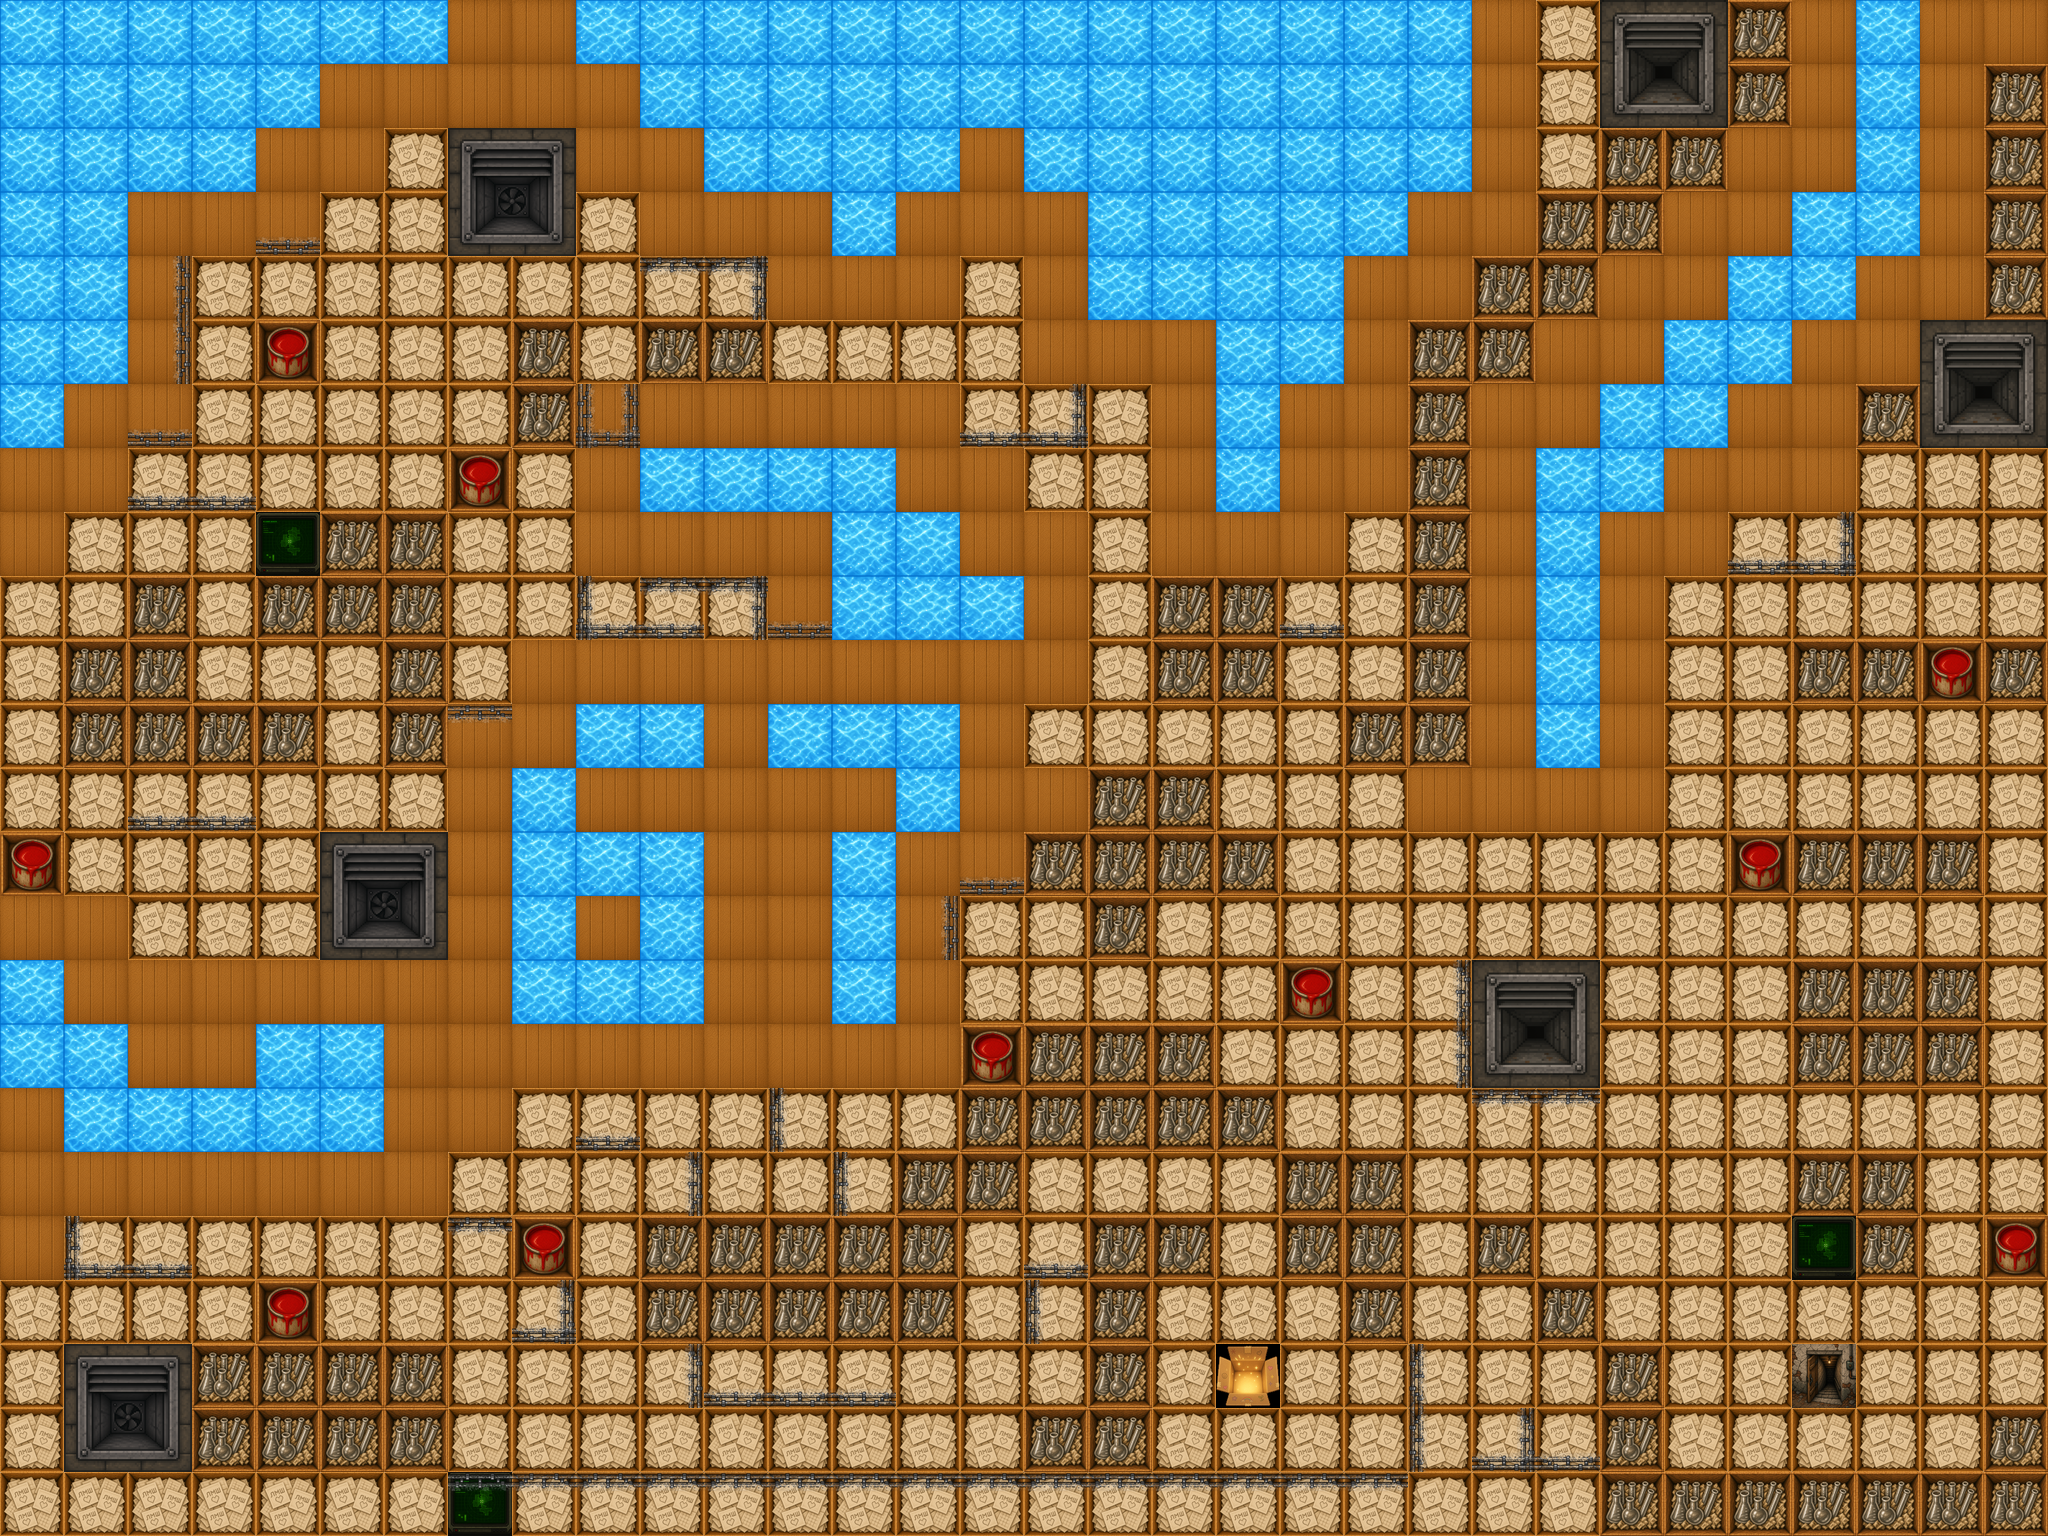
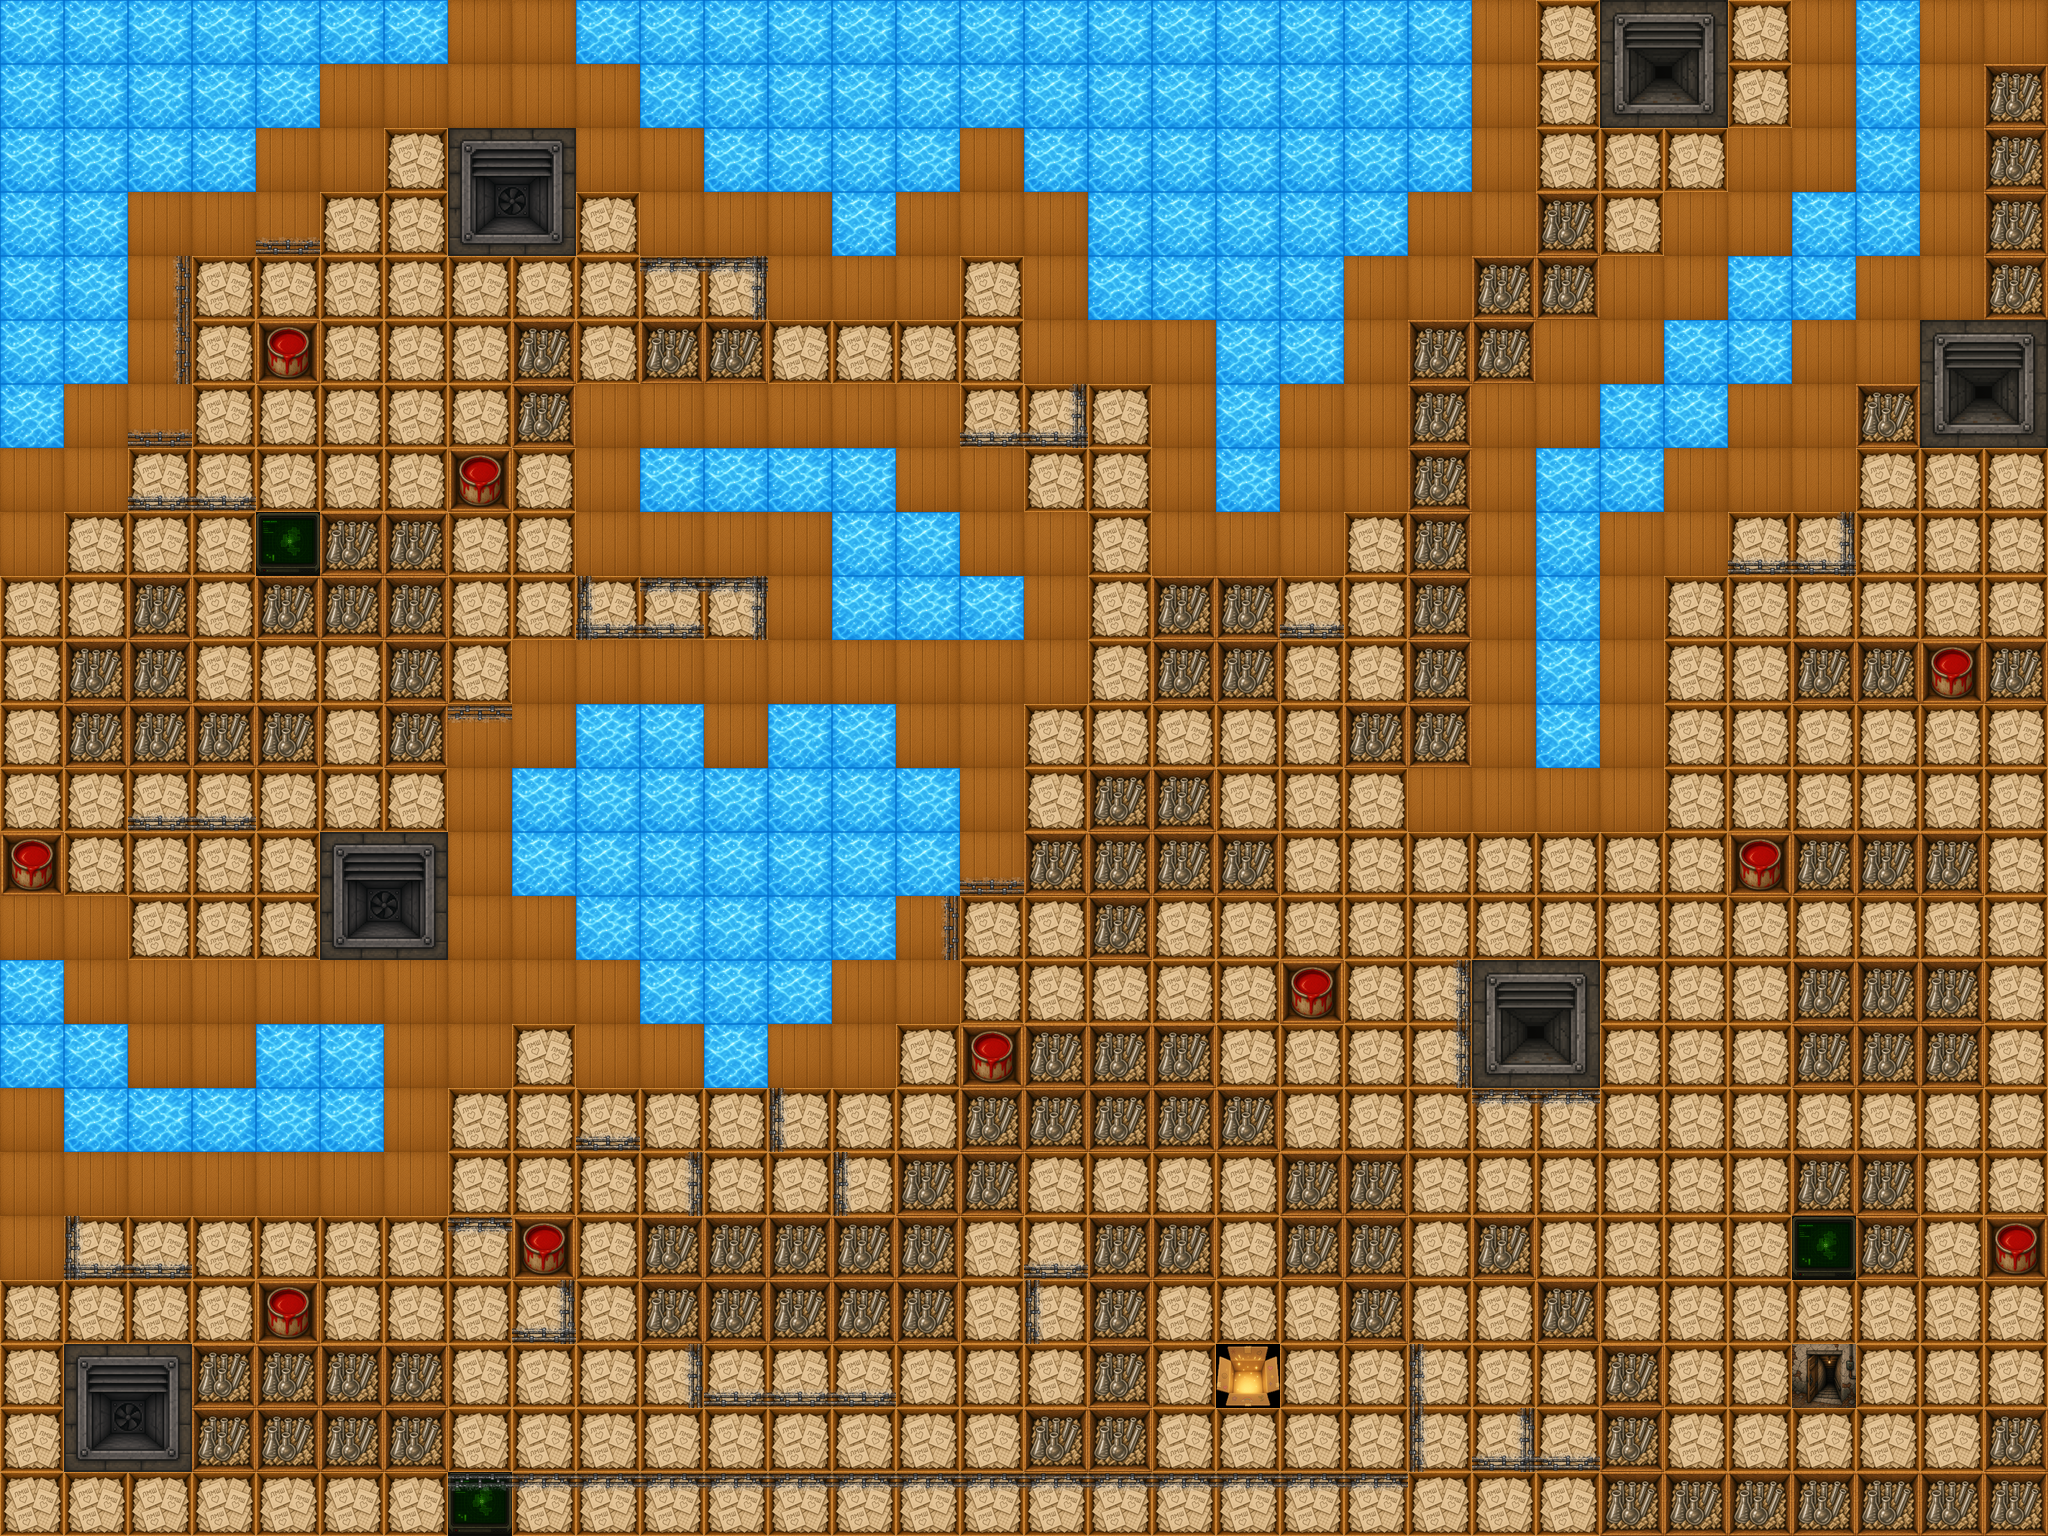
map

diff --git a/gnome-field/src/pages/index.vue b/gnome-field/src/pages/index.vue
@@ -4,14 +4,7 @@
     <div class="field-layout">
       <div
         class="field-frame"
-        :style="{
-          '--field-frame-columns': store.getWidth() + 2,
-          '--field-frame-rows': store.getHeight() + 2,
-          aspectRatio: (store.getWidth() + 2) / (store.getHeight() + 2),
-          display: `grid`,
-          gridTemplateColumns: `repeat(${store.getWidth() + 2}, minmax(0, 1fr))`,
-          gridTemplateRows: `repeat(${store.getHeight() + 2}, minmax(0, 1fr))`,
-        }"
+        :style="fieldFrameStyle"
       >
         <div class="field-hover-band field-hover-row" />
         <div class="field-hover-band field-hover-column" />
@@ -22,7 +15,7 @@
         >
           <BorderTile :index="i - 1" />
         </div>
-        <div class="map-slot">
+        <div class="map-slot" :style="mapSlotStyle">
           <GameField />
         </div>
       </div>
@@ -61,6 +54,31 @@ export default defineComponent({
   setup() {
     const store = useAppStore();
     return { store };
+  },
+  computed: {
+    frameColumns() {
+      return this.store.getWidth() + 2;
+    },
+    frameRows() {
+      return this.store.getHeight() + 2;
+    },
+    fieldFrameStyle() {
+      return {
+        "--field-frame-columns": this.frameColumns,
+        "--field-frame-rows": this.frameRows,
+        aspectRatio: `${this.frameColumns} / ${this.frameRows}`,
+        display: "grid",
+        gridTemplateColumns: `repeat(${this.frameColumns}, minmax(0, 1fr))`,
+        gridTemplateRows: `repeat(${this.frameRows}, minmax(0, 1fr))`,
+        width: `min(100%, calc((100vh - 2.6rem) * ${this.frameColumns} / ${this.frameRows}))`,
+      };
+    },
+    mapSlotStyle() {
+      return {
+        gridColumn: `2 / span ${this.store.getWidth()}`,
+        gridRow: `2 / span ${this.store.getHeight()}`,
+      };
+    },
   },
   methods: {
     borderTileStyle(index) {
@@ -120,20 +138,12 @@ export default defineComponent({
 
 .field-frame {
   position: relative;
-  width: min(100%, calc((100vh - 2.6rem) * 34 / 26));
   margin: 0 auto;
   padding: 0;
-  border: 0.45rem solid #3f2f24;
+  border: 0.35rem solid #3f2f24;
   border-radius: 0.35rem;
-  box-shadow:
-    0 1.2rem 2.8rem rgba(0, 0, 0, 0.52),
-    0 0 0 1px rgba(229, 179, 100, 0.28),
-    inset 0 0 0 0.18rem rgba(114, 72, 38, 0.6);
-  background:
-    linear-gradient(90deg, rgba(84, 55, 32, 0.32) 0 1px, transparent 1px 100%),
-    linear-gradient(0deg, rgba(255, 231, 174, 0.1) 0 1px, transparent 1px 100%),
-    linear-gradient(135deg, #7a5833, #be8e4f 48%, #6b482a);
-  background-size: 1.1rem 1.1rem, 1.1rem 1.1rem, auto;
+  box-shadow: 0 1rem 2.1rem rgba(0, 0, 0, 0.42);
+  background: #7a5833;
 }
 
 .field-frame > div:not(.field-hover-band):not(.map-slot) {
@@ -144,8 +154,6 @@ export default defineComponent({
 .map-slot {
   position: relative;
   z-index: 2;
-  grid-column: 2 / span 32;
-  grid-row: 2 / span 24;
   min-width: 0;
   min-height: 0;
 }
@@ -176,23 +184,6 @@ export default defineComponent({
 
 .field-frame.is-cell-hovered .field-hover-band {
   opacity: 1;
-}
-
-.field-frame::before {
-  content: "";
-  position: absolute;
-  pointer-events: none;
-}
-
-.field-frame::before {
-  inset: -0.95rem -0.75rem;
-  z-index: -1;
-  border-radius: 0.45rem;
-  background:
-    linear-gradient(90deg, transparent 0 1.2rem, rgba(241, 204, 137, 0.22) 1.2rem 1.5rem, transparent 1.5rem),
-    linear-gradient(0deg, transparent 0 1.2rem, rgba(55, 34, 24, 0.34) 1.2rem 1.5rem, transparent 1.5rem),
-    #221a18;
-  box-shadow: 0 0.35rem 1.1rem rgba(0, 0, 0, 0.52);
 }
 
 .stats-frame {

diff --git a/gnome-field/src/components/StatsColumn.vue b/gnome-field/src/components/StatsColumn.vue
@@ -1,6 +1,5 @@
 <template>
   <div class="stats-column">
-    <div class="journal-pin" />
     <v-btn
       class="stats-action-button fullscreen-button"
       :icon="fullscreen ? 'mdi-fullscreen-exit' : 'mdi-fullscreen'"
@@ -245,37 +244,10 @@ export default defineComponent({
     center,
     center;
   box-shadow:
-    inset 0 0 0 1px rgba(255, 255, 255, 0.08),
     inset 0 0 2rem rgba(0, 0, 0, 0.28),
     0 0.9rem 2.2rem rgba(0, 0, 0, 0.34);
   color: #f4e0b3;
   font-family: monospace;
-}
-
-.stats-column::before {
-  content: "";
-  position: absolute;
-  inset: 0.45rem;
-  pointer-events: none;
-  border: 1px solid rgba(234, 191, 113, 0.14);
-  box-shadow:
-    inset 0 0 1rem rgba(0, 0, 0, 0.28),
-    inset 0 0 0 0.35rem rgba(10, 10, 14, 0.16);
-}
-
-.journal-pin {
-  position: absolute;
-  top: 0.7rem;
-  right: 3.45rem;
-  width: 1.1rem;
-  height: 1.1rem;
-  border-radius: 50%;
-  background:
-    radial-gradient(circle at 35% 35%, #fff2c6 0 16%, transparent 17%),
-    #b94237;
-  box-shadow:
-    0 0.12rem 0.25rem rgba(0, 0, 0, 0.55),
-    inset 0 -0.1rem 0 rgba(65, 23, 20, 0.35);
 }
 
 .stats-action-button {

diff --git a/gnome-field/src/components/BorderTile.vue b/gnome-field/src/components/BorderTile.vue
@@ -54,20 +54,15 @@ export default defineComponent({
   color: #f1d99c;
   font-size: 0.92rem;
   text-shadow: 0 0.12rem 0 rgba(0, 0, 0, 0.45);
-  background-image:
-    linear-gradient(135deg, rgba(255, 229, 165, 0.07), transparent 46%),
-    radial-gradient(circle at 50% 50%, rgba(0, 0, 0, 0.22), transparent 68%);
-  box-shadow: inset 0 0 0 1px rgba(20, 13, 10, 0.24);
+  background-image: none;
+  box-shadow: none;
   transition:
     background-color 140ms ease,
-    color 140ms ease,
-    box-shadow 140ms ease;
+    color 140ms ease;
 }
 
 .border-tile:hover {
   color: #fff0bd;
-  box-shadow:
-    inset 0 0 0 1px rgba(255, 226, 155, 0.28),
-    0 0 0.35rem rgba(215, 159, 69, 0.28);
+  box-shadow: none;
 }
 </style>

diff --git a/gnome-field/src/components/SingleTile.vue b/gnome-field/src/components/SingleTile.vue
@@ -97,14 +97,12 @@ export default defineComponent({
 
 .tile::before {
   content: "";
+  display: none;
   position: absolute;
   inset: 0;
   z-index: 0;
   pointer-events: none;
-  background:
-    linear-gradient(135deg, rgba(255, 236, 180, 0.012), rgba(0, 0, 0, 0.2)),
-    linear-gradient(180deg, rgba(255, 255, 255, 0.008), rgba(0, 0, 0, 0.12));
-  background-size: 100% 100%;
+  background: transparent;
   opacity: 0.5;
 }
 